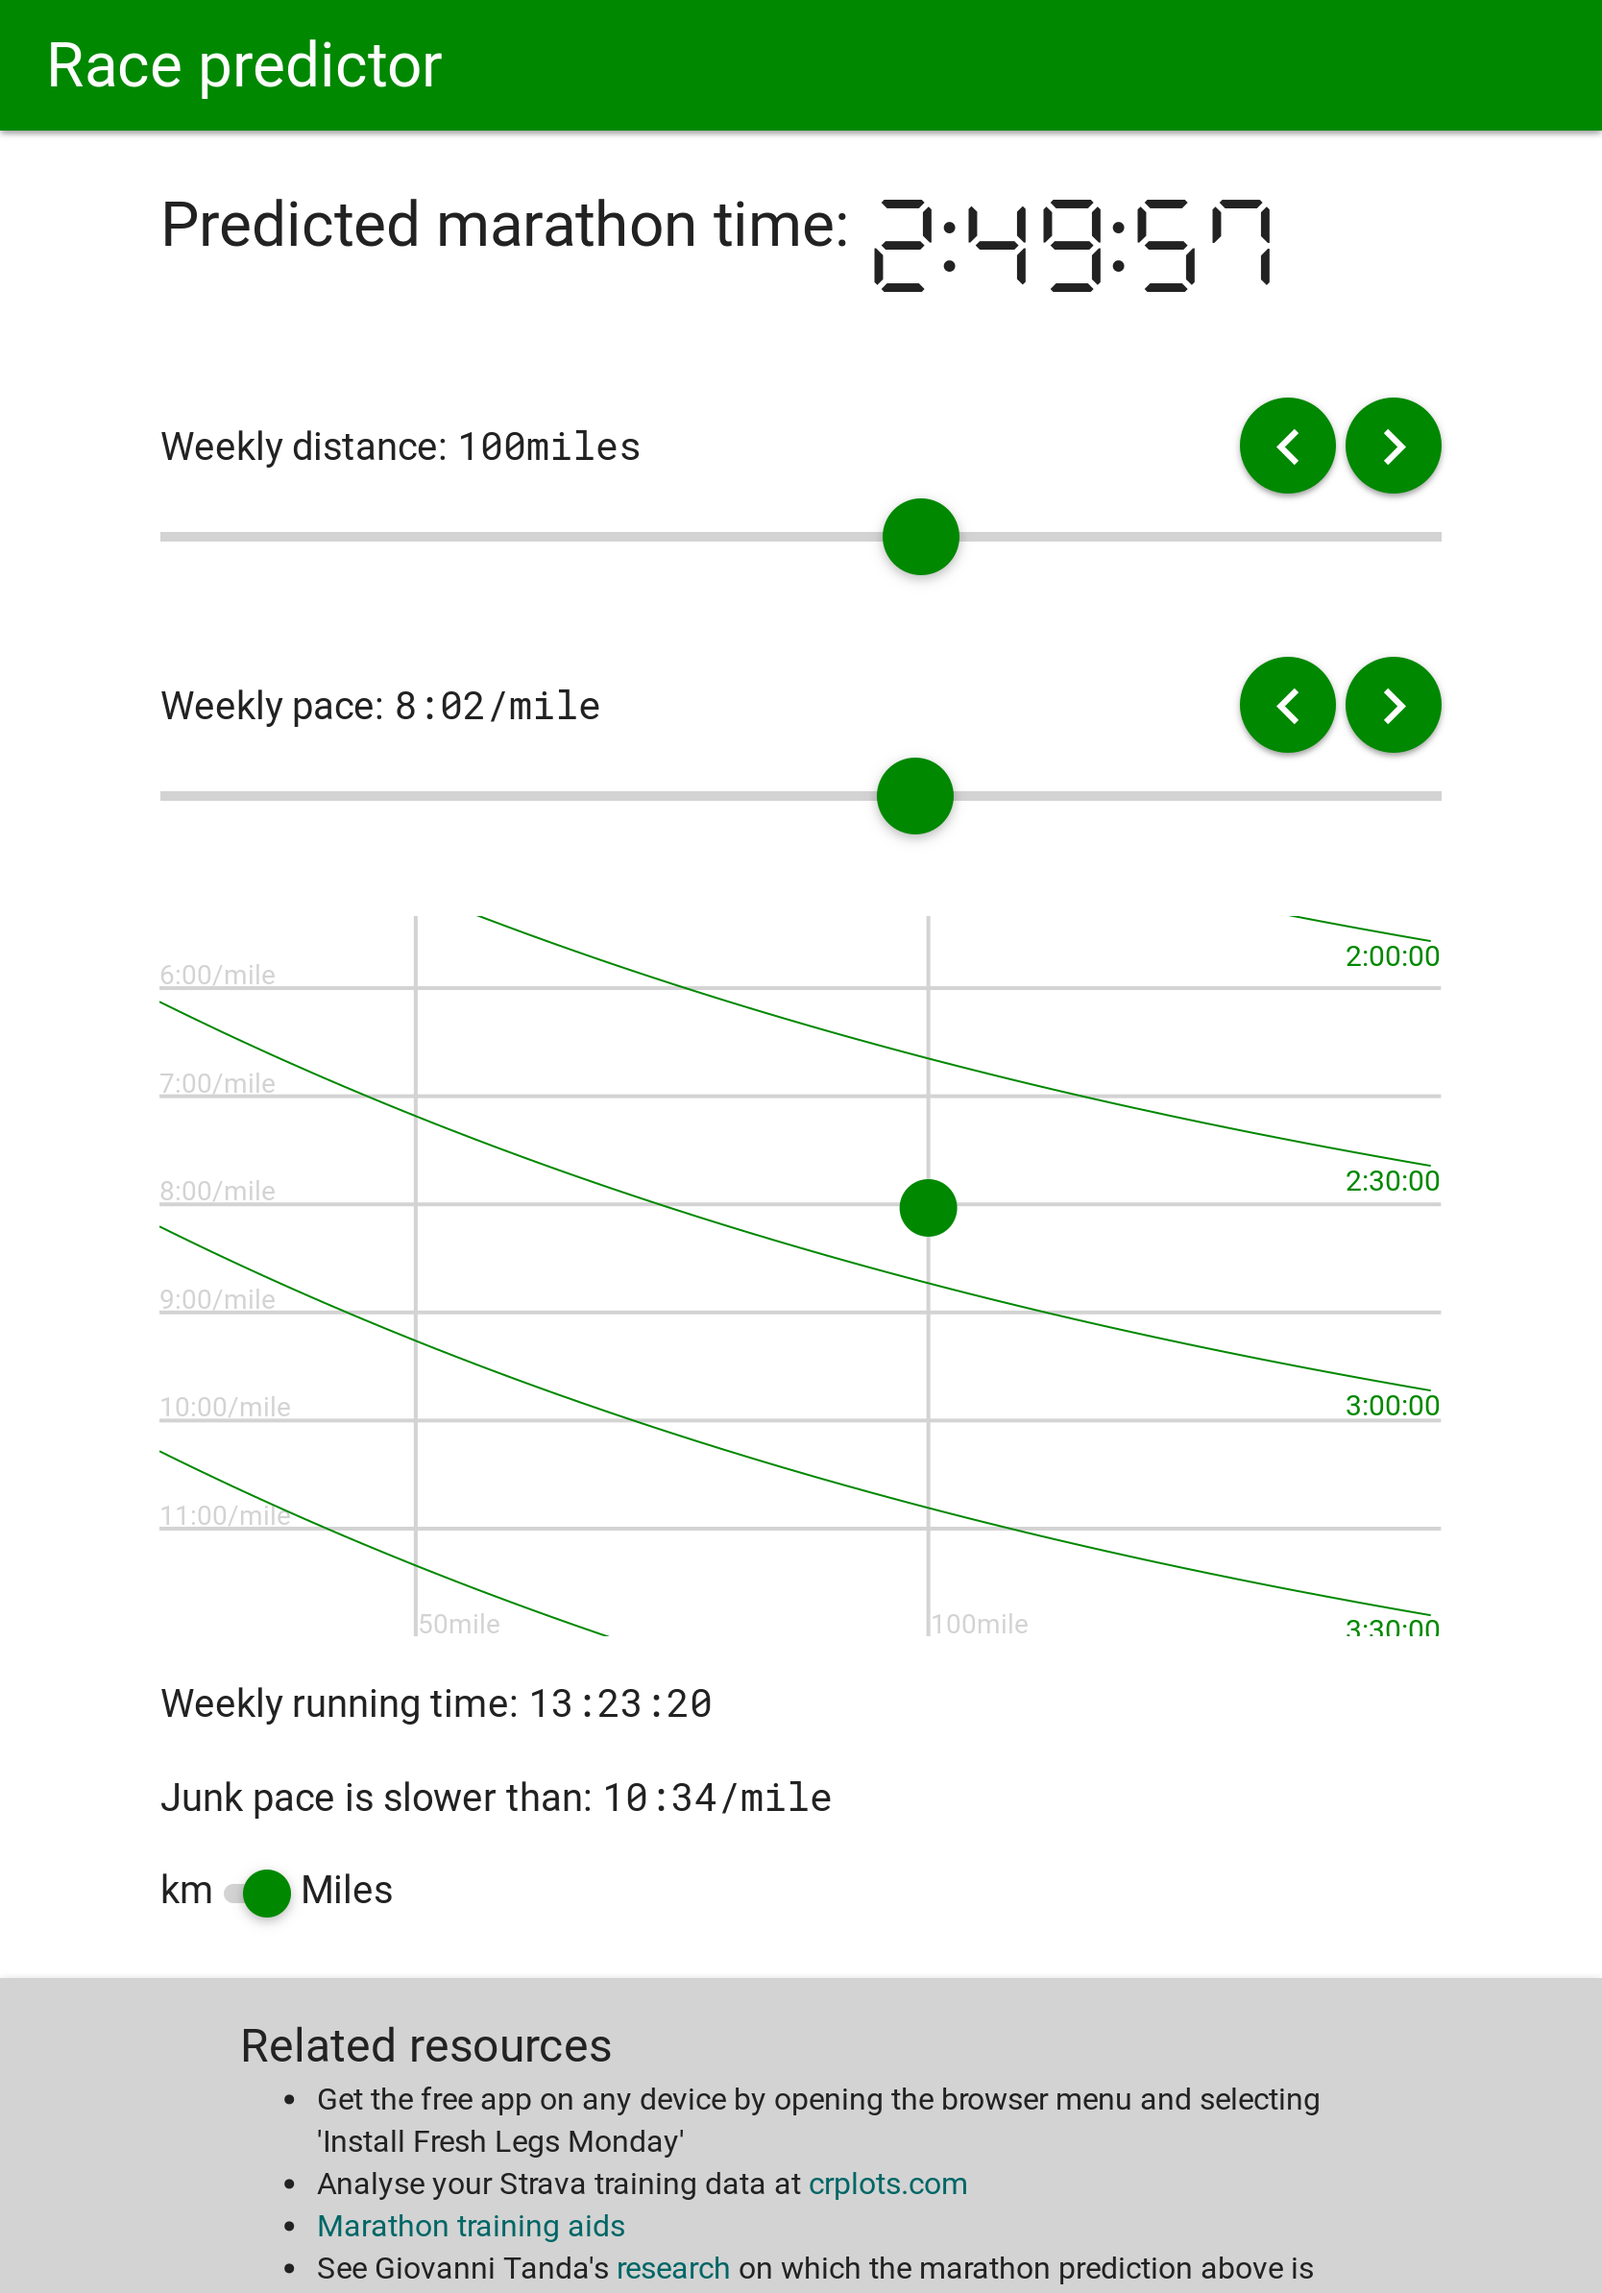
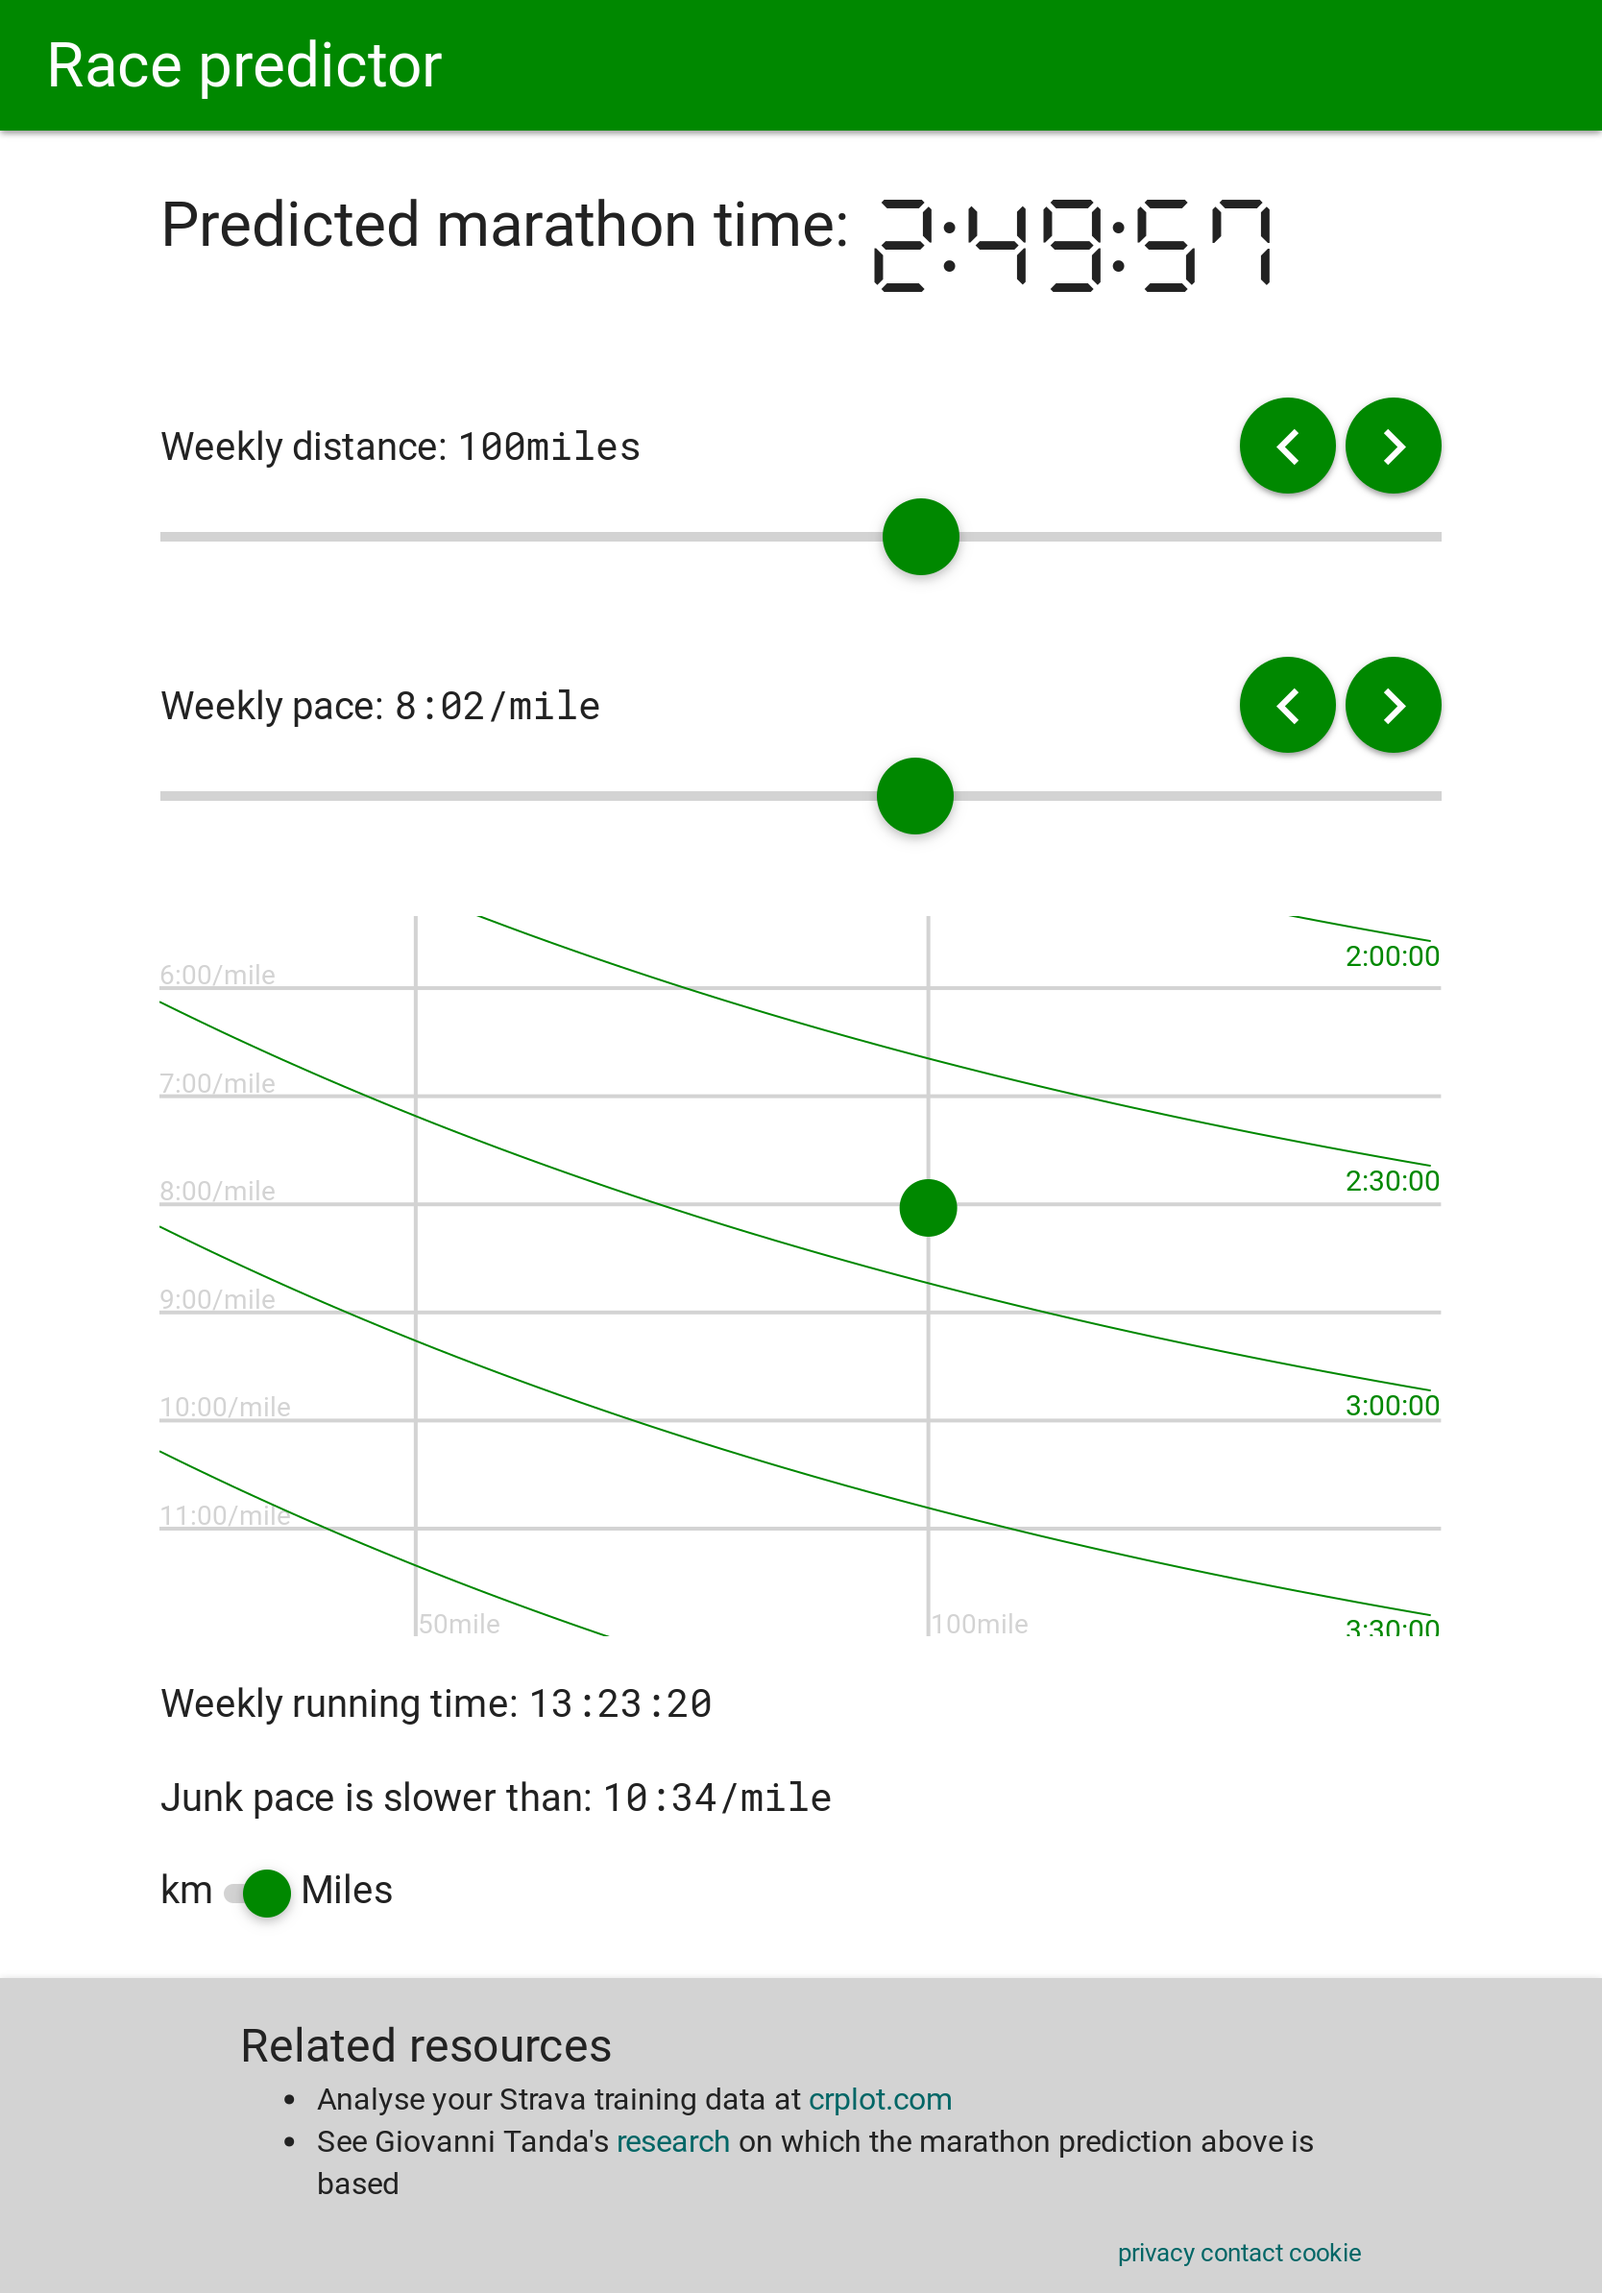
Generate screenshots without app store links
COMPLY: with Apple App Store Meta requirements
ORGANISE: screenshots by relevant app store

Changed region(s): [[0.1871, 0.8987, 0.6547, 1.0], [0.5923, 0.8987, 0.8417, 1.0], [0.4988, 0.9916, 0.53, 1.0]]

diff --git a/playwright/playwright.config.js b/playwright/playwright.config.js
@@ -1,4 +1,5 @@
 const { defineConfig, devices } = require('@playwright/test');
+// Note: test is extended in ./tests/generateScreenshot.spec.js
 
 /**
  * @see https://playwright.dev/docs/test-configuration
@@ -30,64 +31,82 @@ module.exports = defineConfig({
       name: 'feature-graphic',
       use: {
         ...devices['Desktop Chrome'],
-        viewport: {width: 1024, height: 500},
+        viewport: { width: 1024, height: 500 },
+        store: 'PlayStore',
       },
     },
     {
       name: 'phone portrait',
       use: {
         ...devices['Pixel 7'],
+        store: 'PlayStore',
       },
     },
     {
       name: 'tablet small portrait',
       use: {
         ...devices['iPad Mini'],
+        store: 'PlayStore',
       },
     },
     {
       name: 'tablet small landscape',
       use: {
         ...devices['iPad Mini landscape'],
+        store: 'PlayStore',
       },
     },
     {
       name: 'tablet large portrait',
       use: {
         ...devices['iPad Pro 11'],
+        store: 'PlayStore',
       },
     },
     {
       name: 'tablet large landscape',
       use: {
         ...devices['iPad Pro 11 landscape'],
+        store: 'PlayStore',
       },
     },
     {
       name: 'iPhone 6.7"',
       use: {
         ...devices['iPhone 14 Pro Max'],
-        viewport: {width: 430, height: 932},
+        viewport: { width: 430, height: 932 },
+        store: 'AppleAppStore',
       },
     },
     {
       name: 'iPhone 6.5"',
       use: {
         ...devices['iPhone 14 Plus'],
-        viewport: {width: 428, height: 926},
+        viewport: { width: 428, height: 926 },
+        store: 'AppleAppStore',
       },
     },
     {
       name: 'iPhone 5.5"',
       use: {
         ...devices['iPhone 8 Plus'],
+        store: 'AppleAppStore',
       },
     },
     {
       name: 'iPad Pro 12.9"',
       use: {
         ...devices['iPad Pro 11'],
-        viewport: {width: 1024, height: 1366},
+        viewport: { width: 1024, height: 1366 },
+        store: 'AppleAppStore',
+      },
+    },
+    {
+      name: 'iPad Pro 12.9" landscape',
+      use: {
+        ...devices['iPad Pro 11'],
+        viewport: { width: 1366, height: 1024 },
+        store: 'AppleAppStore',
       },
     },
 

diff --git a/playwright/tests/generateScreenshots.spec.js b/playwright/tests/generateScreenshots.spec.js
@@ -1,25 +1,37 @@
-import { test } from '@playwright/test';
+// Import test and extend it to have a "store" to allow screenshots to be separated appropriately
+import { test as base } from '@playwright/test';
+const test = base.extend({
+  store: ["StoreNotSet", { option: true }],
+});
+export { test };
 
 test.describe('Generate screenshots using Playwright', () => {
+  const url = 'http://localhost:63342/crtools/static/';
+  const now = new Date()
+  const time = now.getTime();
+  const expiry = time/1000 + 60;
+  const appPlatformCookie = { name:"app-platform", value:"screenshot", url:url, expires:expiry }  // Used to signal that app store logos, etc., should be hidden
 
-  test('Device screenshot km', async ({ page }) => {
+  test('Device screenshot km', async ({ page, context, store }) => {
     let name = test.info().project.name;
     if (name !== 'feature-graphic') {
       name += " km"
     }
-    await page.goto('http://localhost:63342/crtools/static/');
-    await page.screenshot({path: '../static/img/PlayStore/' + name + '.png'});
+    await context.addCookies([appPlatformCookie]);
+    await page.goto(url);
+    await page.screenshot({ path: '../static/img/' + store + '/' + name + '.png' });
   })
 
-  test('Device screenshot miles', async ({ page }) => {
+  test('Device screenshot miles', async ({ page, context, store }) => {
     let name = test.info().project.name;
     if (name !== 'feature-graphic') {
       name += " miles"
-      await page.goto('http://localhost:63342/crtools/static/');
+      await context.addCookies([appPlatformCookie]);
+      await page.goto(url);
       const milesButton = await page.$('#miles');
-      await milesButton.evaluate((node) => {node.click()});
+      await milesButton.evaluate((node) => { node.click() });
       await page.waitForTimeout(500);
-      await page.screenshot({path: '../static/img/PlayStore/' + name + '.png'});
+      await page.screenshot({ path: '../static/img/' + store + '/' + name + '.png' });
     }
   })
 
